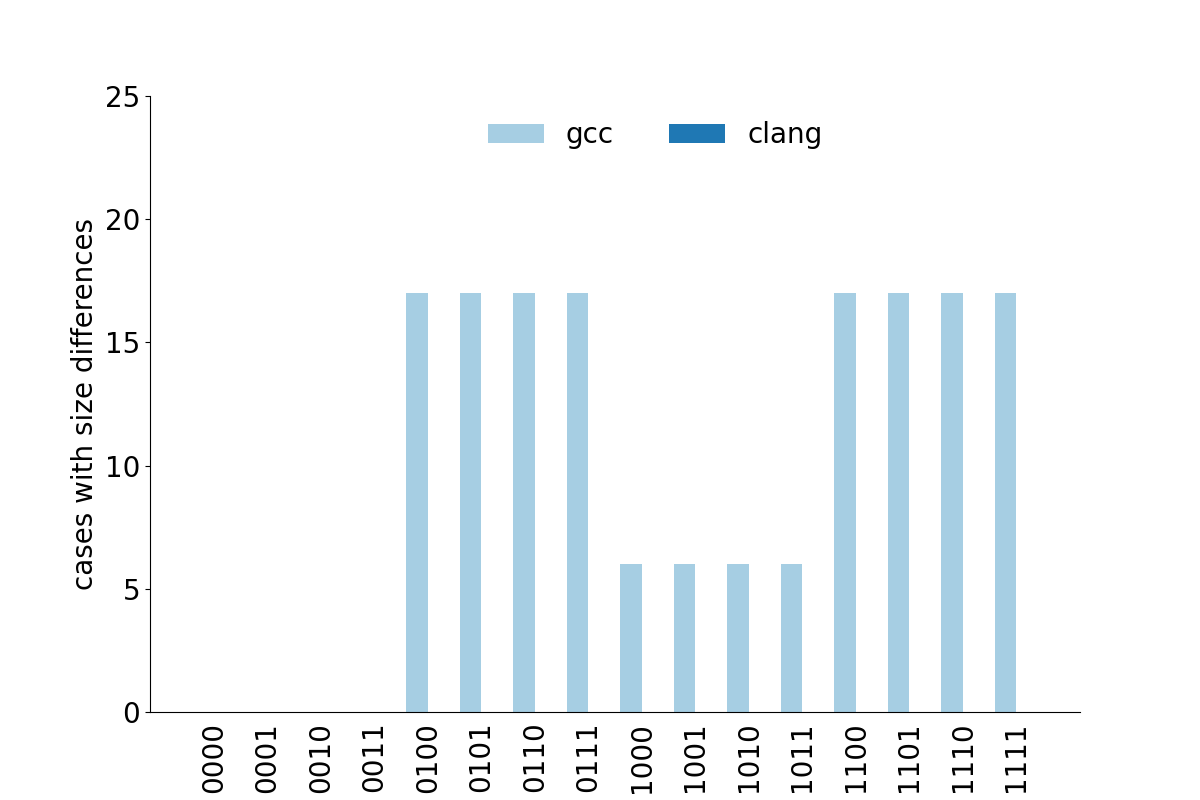
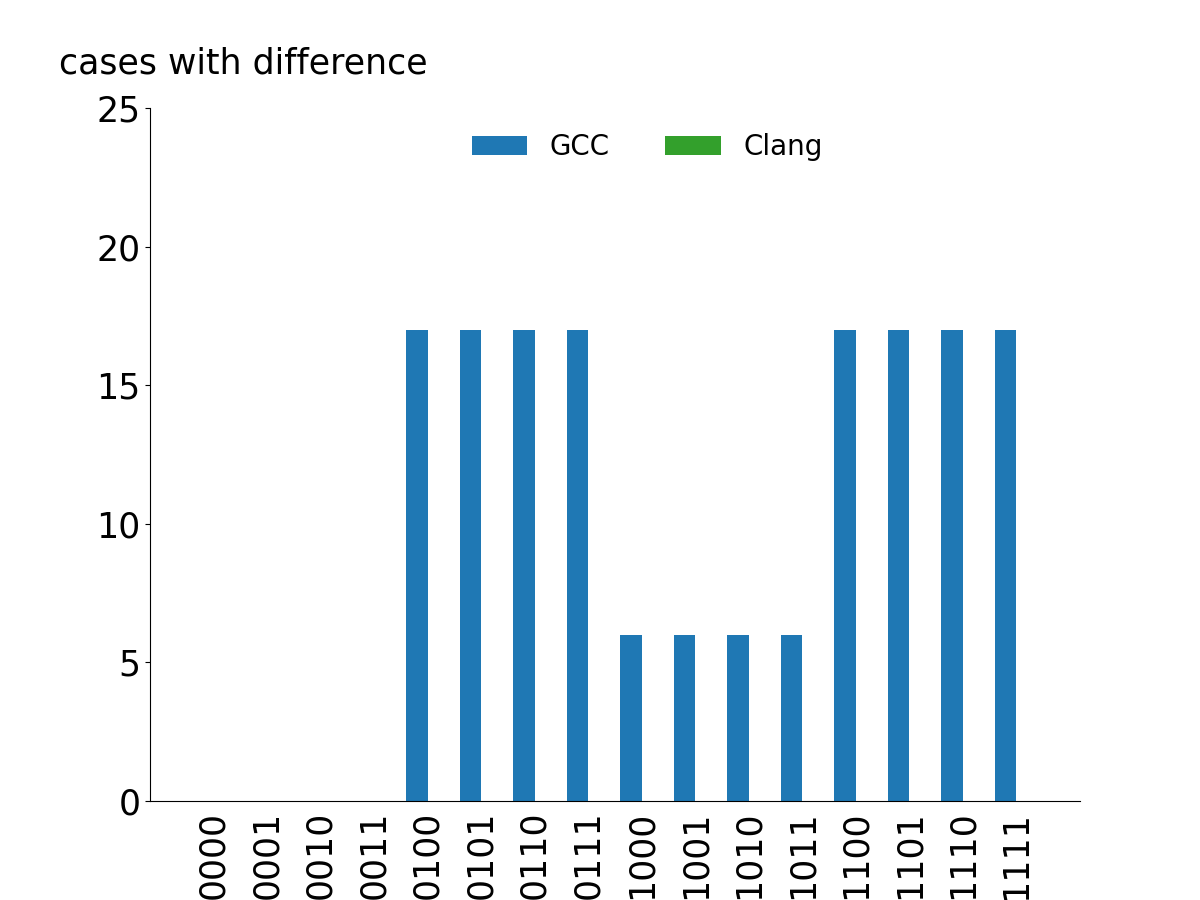
fix height of plots

diff --git a/plotScripts/plotScatter.py b/plotScripts/plotScatter.py
@@ -9,7 +9,8 @@ matplotlib.rcParams['pdf.fonttype'] = 42
 matplotlib.rcParams['ps.fonttype'] = 42
 
 keylabels = ['0000', '0001', '0010','0011',  '0100','0101',  '0110', '0111', '1000', '1001','1010', '1011',  '1100', '1101', '1110', '1111']
-colors = ['#a6cee3', '#1f78b4', '#b2df8a', '#33a02c', '#a6cee3', '#1f78b4', '#b2df8a', '#33a02c', '#a6cee3', '#1f78b4', '#b2df8a', '#33a02c', '#a6cee3', '#1f78b4', '#b2df8a', '#33a02c' ]
+colors = ['#1f78b4', '#33a02c', '#e31a1c']
+
 
 def get_data(filestring):
 
@@ -56,12 +57,12 @@ def get_data(filestring):
 
 gcc_rel, gcc_vals = get_data('../gccO3.txt')
 
-font = {'size'   : 20}
+font = {'size'   : 25}
 
 matplotlib.rc('font', **font)
 
 
-fig, ax = plt.subplots(figsize=(12,8))
+fig, ax = plt.subplots(figsize=(12,9))
 
 ax.spines['right'].set_visible(False)
 ax.spines['top'].set_visible(False)
@@ -93,19 +94,21 @@ ifBreaks_vals = ifBreaks[ifBreaks != 0]
 ifBreaksNo_vals = ifBreaksNo[ifBreaksNo != 0]
 
 
-labels = ['ifSwap', 'ifElseBreakup', 'Both']
+labels = ['IfSwap', 'IfElseBreakup', 'Both']
 
-ax.scatter(baseline[ifs != 0], ifs_vals, color=colors[0])
-ax.scatter(baseline[ifBreaksNo != 0], ifBreaksNo_vals, color=colors[1])
-ax.scatter(baseline[ifBreaks != 0], ifBreaks_vals, color=colors[2])
+ax.scatter(baseline[ifs != 0], ifs_vals, color=colors[0], marker='+', s=175)
+ax.scatter(baseline[ifBreaksNo != 0], ifBreaksNo_vals, color=colors[1], marker='2', s=175)
+ax.scatter(baseline[ifBreaks != 0], ifBreaks_vals, color=colors[2], marker='1', s=175)
 
 legend = plt.legend(labels, ncol=2, fontsize=20, bbox_to_anchor=(0.75, 1))
 legend.pos = 'best'
 
 plt.ylim([-100, 100])
 
-plt.ylabel('relative size [%]')
-plt.xlabel('number of assembly lines')
+
+plt.xlabel('number of initial assembly lines')
+ax.set_ylabel('relative size [%]', rotation='horizontal')
+ax.yaxis.set_label_coords(0,1.04)
 
 plt.tick_params(
     axis='x',          # changes apply to the x-axis

diff --git a/plotScripts/plotNum.py b/plotScripts/plotNum.py
@@ -9,7 +9,7 @@ matplotlib.rcParams['pdf.fonttype'] = 42
 matplotlib.rcParams['ps.fonttype'] = 42
 
 keylabels = ['0000', '0001', '0010','0011',  '0100','0101',  '0110', '0111', '1000', '1001','1010', '1011',  '1100', '1101', '1110', '1111']
-colors = ['#a6cee3', '#1f78b4', '#b2df8a', '#33a02c']
+colors = ['#1f78b4', '#33a02c', '#e31a1c']
 
 def get_data(filestring):
 
@@ -75,12 +75,12 @@ def get_data(filestring):
 gcc_diff, gcc_vals = get_data('../gccO3.txt')
 clang_diff, clang_vals = get_data('../clangO3.txt')
 
-font = {'size'   : 20}
+font = {'size'   : 25}
 
 matplotlib.rc('font', **font)
 
 
-fig, ax = plt.subplots(figsize=(12,8))
+fig, ax = plt.subplots(figsize=(12,9))
 bars = [0, 1, 2, 3, 4, 5, 6, 7, 8, 9, 10, 11, 12, 13, 14, 15]
 posFirst = [x - 0.2 for x in bars]
 posThird = [x + 0.2 for x in bars]
@@ -95,11 +95,12 @@ ax.bar(posThird, clang_diff, width=0.4, align='edge', color=colors[1], tick_labe
 #ax.bar(posThird, clangLinux, width=0.2, align='edge', color=colors[2], tick_label=transform)
 
 
-legend = plt.legend(['gcc', 'clang'], ncol=2, fontsize=20, bbox_to_anchor=(0.75, 1))
+legend = plt.legend(['GCC', 'Clang'], ncol=2, fontsize=20, bbox_to_anchor=(0.75, 1))
 legend.get_frame().set_edgecolor('white')
 legend.pos = 'upper left'
 
-plt.ylabel('cases with size differences')
+ax.set_ylabel('cases with difference', rotation='horizontal')
+ax.yaxis.set_label_coords(0.1,1.04)
 
 plt.tick_params(
     axis='x',          # changes apply to the x-axis
